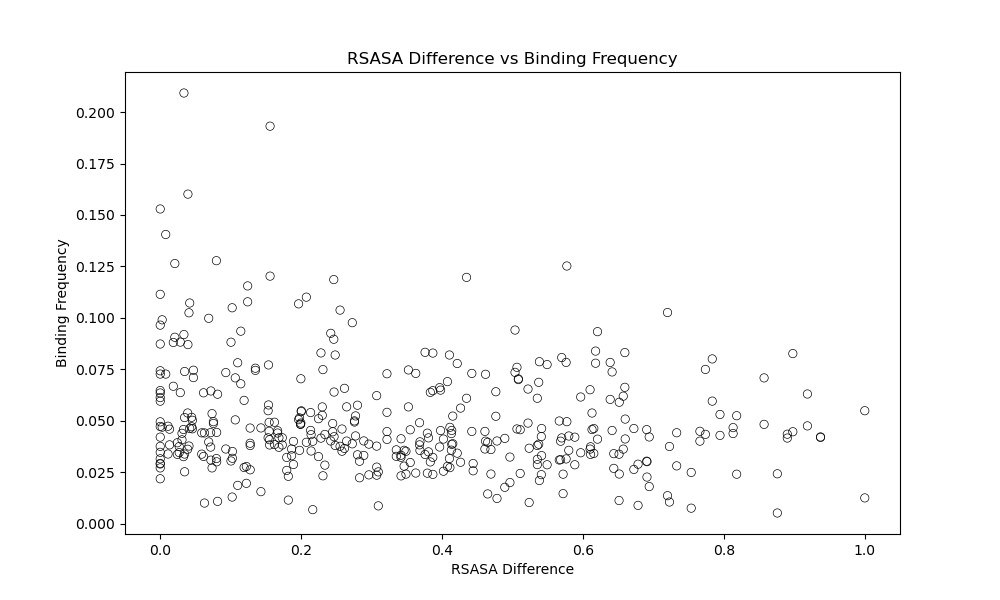
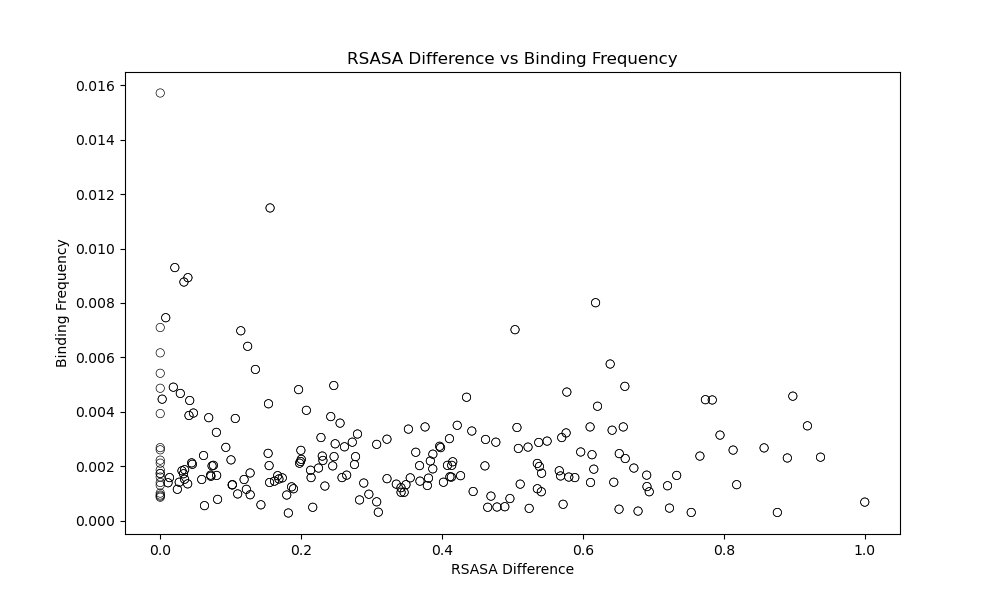
Changed total contacts

diff --git a/residue_bindings/extract_dict.py b/residue_bindings/extract_dict.py
@@ -8,17 +8,16 @@ with open(input_file, 'rb') as f:
     res_dict = pickle.load(f)
 
 def get_relative_freq(dict):
+    total_contacts = 0
     for key, value in dict.items():
         print(f"Amino acid is {key}")
-        total_contacts = 0
         for aa in value:
             total_contacts += value[aa]
-        
-        print(f"It has {total_contacts} total contacts")
-
-
+    
+    for key, value in dict.items():
         for inner_aa in value:
             value[inner_aa] = round(value[inner_aa] / total_contacts, 5)
+
     return dict
     # print(total_contacts)
 
